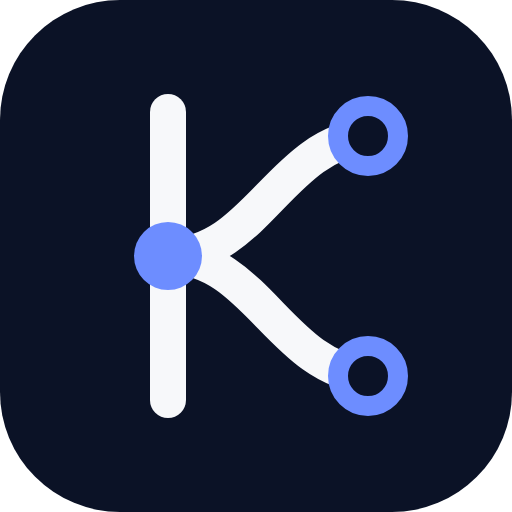
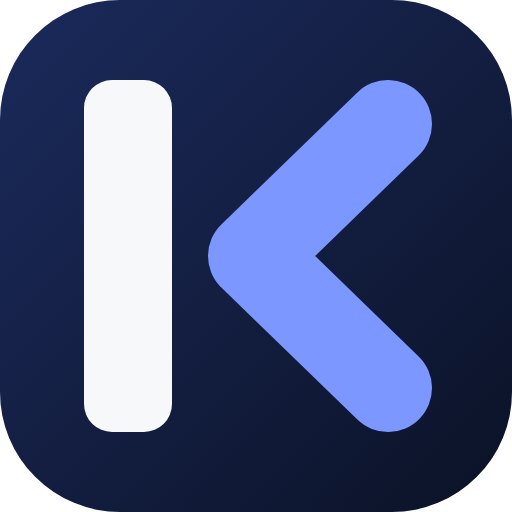
Brand v2: a K of two solid shapes with the owner's wordmark
The first mark (thin lines and dots) read as clip art. The new mark is a stem
and a bold chevron split by an even gap: strong silhouette, flat or on a tile,
legible at 16 px. Variants: flat lockup (site), app tile, uppercase wide-spaced
alternative, dark, mono marks, bolder favicon. Logo component follows the theme
(stem and wordmark use the text color, chevron the accent token).

Claude-Session: https://claude.ai/code/session_01XyvwrkBXy9FJNk8EbfWp2H

diff --git a/apps/hub/src/components/Logo.tsx b/apps/hub/src/components/Logo.tsx
@@ -1,26 +1,32 @@
 /**
- * The KpnSolute logo: the K-as-a-route icon plus the outlined wordmark (Josefin Sans, SIL OFL 1.1).
- * The wordmark takes the surrounding text color, so it follows light and dark themes. Generated from
- * brand/kpnsolute/build.py; edit the source there, not this path.
+ * The KpnSolute logo: a K made of two solid shapes (a stem and a bold chevron) plus the outlined wordmark
+ * (Josefin Sans, SIL OFL 1.1). The stem and wordmark take the surrounding text color and the chevron takes
+ * the accent token, so the logo follows light and dark themes. Generated from brand/kpnsolute/build.py:
+ * change the source there, not this path.
  */
 const WORDMARK_PATH =
-  'M170.0383229389828 58.20669459652463 169.82752995318575 60.66148758232166 170.74206331825755 59.33895421724985 190.45905260652228 38.61569118463857H199.41761421883677L179.05164928985164 59.862154407680706L200.46492644608426 87.868H191.6865543124653L173.9858947869555 64.25134047449019L170.0077194318813 68.10710180115845L170.0383229389828 87.868H163.0108631278267V38.61569118463857H170.0383229389828Z M224.64925620883918 88.56158597159406Q221.47699658811393 88.56158597159406 218.57505625644689 87.1165333650718Q215.6731159247798 85.67148075854955 214.0343229389828 83.22341061651987L214.42873696738872 81.16989478695548V101.47472284376735H207.79225962072522V59.09398587637863H213.5651860668095L214.46613346028724 66.18993668174244L213.7793404744902 64.18054018884392Q215.84651241767833 61.65767706101721 218.9473404744902 60.01373672935014Q222.04816853130208 58.36979639768308 225.91058255970802 58.36979639768308Q229.9055650242006 58.36979639768308 233.07775450289614 60.26189113703086Q236.24994398159168 62.15398587637863 238.0893404744902 65.57776132666825Q239.92873696738872 69.00153677695786 239.92873696738872 73.64248417043561Q239.92873696738872 78.21543156391334 237.9278492422439 81.58311227485518Q235.9269615170991 84.95079298579702 232.48448782036024 86.75618947869555Q229.04201412362136 88.56158597159406 224.64925620883918 88.56158597159406ZM223.35732635086885 83.25443497579941Q226.03656843608664 83.25443497579941 228.25 82.02021042608902Q230.46343156391336 80.78598587637863 231.80644909942077 78.6099508053638Q233.1494666349282 76.43391573434896 233.1494666349282 73.71727715623264Q233.1494666349282 70.8952420852178 231.89654383876854 68.71920701420296Q230.6436210426089 66.54317194318813 228.53558597159406 65.29024914702848Q226.42755090057923 64.03732635086884 223.82310180115846 64.03732635086884Q221.42944568753472 64.03732635086884 219.5236948345632 64.92987018963738Q217.61794398159168 65.82241402840593 216.3276246925335 67.40518241688486Q215.03730540347536 68.9879508053638 214.46613346028724 71.12662445449496V76.10736142188367Q214.8571159247798 78.14743156391334 216.10664222804093 79.78629469174005Q217.35616853130207 81.42515781956676 219.24661763072285 82.33979639768309Q221.13706673014363 83.25443497579941 223.35732635086885 83.25443497579941Z M254.3243580099976 59.55976132666825 254.88873696738872 66.24091914623502 254.63032293898277 65.24465952550979Q256.01070189637386 62.15062445449496 259.035021185432 60.29421042608902Q262.05934047449017 58.43779639768309 266.1155299531857 58.43779639768309Q270.11730540347537 58.43779639768309 272.70977910021423 60.79738236927715Q275.3022527969531 63.15696834087122 275.3702527969531 66.91734729826231V87.868H268.66577545028963V69.25981052130444Q268.5977754502896 67.01237895739109 267.351645639927 65.59285265412996Q266.1055158295644 64.17332635086883 263.48748075854957 64.14272284376734Q261.09725620883916 64.14272284376734 259.1592211378243 65.50951582956438Q257.2211860668095 66.87630881536141 256.1076597635483 69.26310180115846Q254.99413346028723 71.64989478695549 254.99413346028723 74.7846877727525V87.868H248.3202596207252V59.55976132666825Z M313.3519298579703 47.720547488693164Q310.8325684360866 46.401375545505026 307.8286631754344 45.442582559708Q304.82475791478214 44.48378957391097 302.02653336507177 44.48378957391097Q298.12665270173767 44.48378957391097 295.83160009521544 46.26544568753471Q293.53654748869315 48.04710180115845 293.53654748869315 51.0901544076807Q293.53654748869315 53.286603507101475 295.03765976354833 54.86422454971038Q296.5387720384035 56.44184559231928 298.9476948345632 57.60635436007299Q301.35661763072284 58.7708631278267 304.0120491946362 59.777277156232635Q306.27985971594063 60.62388066333412 308.51367023724504 61.730578909783375Q310.7474807585495 62.83727715623264 312.53929127985396 64.45737189558041Q314.3311018011584 66.07746663492819 315.39700706181065 68.48295786717448Q316.4629123224629 70.88844909942077 316.4629123224629 74.40063857811631Q316.4629123224629 78.30044909942077 314.52151582956435 81.48794033166706Q312.58011933666586 84.67543156391335 308.95574037927474 86.54371578195668Q305.3313614218836 88.41199999999999 300.2450175355074 88.41199999999999Q297.05237895739106 88.41199999999999 294.0943789573911 87.69628421804332Q291.13637895739106 86.98056843608664 288.5711122748552 85.79056843608664Q286.00584559231925 84.60056843608665 283.9659157343489 83.2236210426089L287.0631719431881 77.77367706101721Q288.70875791478215 78.97386653971276 290.81336142188366 80.00577180036498Q292.91796492898516 81.0376770610172 295.20958597159404 81.67348758232166Q297.5012070142029 82.30929810362612 299.60584559231927 82.30929810362612Q301.8941052130445 82.30929810362612 304.1245543124653 81.50856478616203Q306.35500341188606 80.70783146869792 307.8204349757994 78.97887360152345Q309.28586653971274 77.24991573434896 309.28586653971274 74.4312420852178Q309.28586653971274 72.04774037927477 307.97852971514715 70.41059303340474Q306.6711928905816 68.7734456875347 304.56144203761005 67.60042815202729Q302.45169118463855 66.42741061651986 300.0206385781163 65.52639308101246Q297.7086385781163 64.64239308101244 295.3218455923193 63.56290184876616Q292.9350526065222 62.483410616519876 290.9001648813774 60.93982464492581Q288.8652771562326 59.39623867333174 287.63108767753704 57.14376497659286Q286.39689819884154 54.891291279853995 286.39689819884154 51.6545333650718Q286.39689819884154 47.70037895739109 288.25838943108783 44.77981052130444Q290.11988066333413 41.8592420852178 293.426354360073 40.1728631278267Q296.73282805681185 38.4864841704356 301.0201894786955 38.34369118463857Q305.8786527017377 38.34369118463857 309.5302386733317 39.5268631278267Q313.18182464492577 40.710035071014836 315.9902036023169 42.40660350710147Z M323.3378455923193 73.43122982523504Q323.3378455923193 69.18172625565342 325.35743156391334 65.76134729826231Q327.37701753550743 62.340968340871214 330.96504703465666 60.35877886217567Q334.5530765338059 58.376589383480116 339.120498294057 58.376589383480116Q343.7614456875347 58.376589383480116 347.2566176307229 60.35877886217567Q350.75178957391097 62.340968340871214 352.68128080615725 65.76242380353725Q354.6107720384035 69.18387926620326 354.6107720384035 73.41677389725744Q354.6107720384035 77.68165611362373 352.68128080615725 81.12073331746409Q350.75178957391097 84.55981052130444 347.2413158771721 86.56069824644925Q343.7308421804332 88.56158597159406 339.0304035547092 88.56158597159406Q334.5169473934777 88.56158597159406 330.9656807109418 86.70349123224628Q327.41441402840593 84.84539649289852 325.3761298103626 81.44239540637409Q323.3378455923193 78.03939431984966 323.3378455923193 73.43122982523504ZM330.0491159247798 73.49969118463858Q330.0491159247798 76.18166877887103 331.2268384022995 78.35257477048339Q332.4045608798192 80.52348076209574 334.42947878879164 81.7988631295998Q336.4543966977641 83.07424549710386 338.9403088153614 83.07424549710386Q341.54609446132855 83.07424549710386 343.5633665197224 81.80262445449495Q345.5806385781163 80.53100341188605 346.7247683884789 78.35777171556754Q347.8688981988415 76.18454001924901 347.8688981988415 73.49969118463858Q347.8688981988415 70.79505859776975 346.7247683884789 68.63171877758042Q345.5806385781163 66.46837895739108 343.56779493418674 65.18145616123144Q341.5549512902572 63.8945333650718 338.9545904520088 63.8945333650718Q336.41065270173766 63.8945333650718 334.39610886296913 65.21205966833293Q332.3815650242006 66.52958597159406 331.2153404744902 68.70222454971038Q330.0491159247798 70.8748631278267 330.0491159247798 73.49969118463858Z M363.0362596207252 35.10350170594302H369.71013346028724V87.868H363.0362596207252Z M389.5493964928985 88.98996492898516Q385.65981052130445 88.98996492898516 383.15403507101485 86.63037895739109Q380.64825962072524 84.27079298579703 380.5122596207252 80.51041402840593V59.55976132666825H387.18613346028724V78.13734729826231Q387.32213346028726 80.38477886217566 388.49686677775134 81.8043051654368Q389.6716000952154 83.22383146869792 392.2080491946362 83.28503848290089Q394.5302737443466 83.28503848290089 396.38161056891215 81.88764199000238Q398.23294739347773 80.49024549710386 399.3277754502896 78.06945251130682Q400.4226035071015 75.6486595255098 400.4226035071015 72.58186653971276V59.55976132666825H407.0964773466635V87.868H401.06177545028964L400.49739649289853 81.11204919463619L400.78641402840594 82.2749123224629Q399.91943156391335 84.20272284376735 398.27892279615963 85.73783511862254Q396.6384140284059 87.27294739347774 394.40460350710146 88.13145616123145Q392.17079298579705 88.98996492898516 389.5493964928985 88.98996492898516Z M420.6390526065222 47.11583146869792H427.34352995318574V59.637985876378636H435.010582559708V64.87713687217328H427.34352995318574V87.868H420.6390526065222V64.87713687217328H415.556V59.637985876378636H420.6390526065222Z M455.83910180115845 88.56158597159406Q450.9805684360866 88.56158597159406 447.46669824644925 86.61339649289852Q443.9528280568119 84.66520701420296 442.0573368245656 81.2601298103626Q440.1618455923193 77.85505260652225 440.1618455923193 73.49969118463858Q440.1618455923193 69.28712274855192 442.2902245497104 65.86674379116083Q444.41860350710147 62.44636483376973 448.0038701896374 60.41147710862492Q451.5891368721733 58.376589383480116 455.9818947869555 58.376589383480116Q461.63941061651985 58.376589383480116 465.3555650242006 61.66944203761008Q469.0717194318813 64.96229469174006 470.3875299531858 70.83396492898515L447.2063229389828 78.91244909942077L445.618582559708 75.02979639768309L464.3970175355074 68.19225962072522L463.0064841704356 69.1068631278267Q462.1870526065223 66.91041402840592 460.3646035071015 65.29368071094183Q458.5421544076807 63.67694739347773 455.47872284376734 63.67694739347773Q452.9422737443466 63.67694739347773 450.96172990557807 64.89247369673886Q448.98118606680947 66.10799999999999 447.85575450289616 68.23133682456557Q446.7303229389828 70.35467364913114 446.7303229389828 73.13931222724747Q446.7303229389828 76.01912274855192 447.918642228041 78.2104595731175Q449.10696151709914 80.40179639768309 451.21160009521543 81.62922796159644Q453.3162386733318 82.8566595255098 455.9818947869555 82.8566595255098Q457.82132635086884 82.8566595255098 459.52815440768074 82.19024549710386Q461.2349824644926 81.52383146869792 462.72418947869556 80.45621042608902L465.77725620883916 85.38596492898516Q463.61148075854953 86.80717194318812 460.97989478695547 87.68437895739109Q458.3483088153614 88.56158597159406 455.83910180115845 88.56158597159406Z';
+  'M168.0383229389828 58.20669459652463 167.82752995318575 60.66148758232166 168.74206331825755 59.33895421724985 188.45905260652228 38.61569118463857H197.41761421883677L177.05164928985164 59.862154407680706L198.46492644608426 87.868H189.6865543124653L171.9858947869555 64.25134047449019L168.0077194318813 68.10710180115845L168.0383229389828 87.868H161.0108631278267V38.61569118463857H168.0383229389828Z M222.64925620883918 88.56158597159406Q219.47699658811393 88.56158597159406 216.57505625644689 87.1165333650718Q213.6731159247798 85.67148075854955 212.0343229389828 83.22341061651987L212.42873696738872 81.16989478695548V101.47472284376735H205.79225962072522V59.09398587637863H211.5651860668095L212.46613346028724 66.18993668174244L211.7793404744902 64.18054018884392Q213.84651241767833 61.65767706101721 216.9473404744902 60.01373672935014Q220.04816853130208 58.36979639768308 223.91058255970802 58.36979639768308Q227.9055650242006 58.36979639768308 231.07775450289614 60.26189113703086Q234.24994398159168 62.15398587637863 236.0893404744902 65.57776132666825Q237.92873696738872 69.00153677695786 237.92873696738872 73.64248417043561Q237.92873696738872 78.21543156391334 235.9278492422439 81.58311227485518Q233.9269615170991 84.95079298579702 230.48448782036024 86.75618947869555Q227.04201412362136 88.56158597159406 222.64925620883918 88.56158597159406ZM221.35732635086885 83.25443497579941Q224.03656843608664 83.25443497579941 226.25 82.02021042608902Q228.46343156391336 80.78598587637863 229.80644909942077 78.6099508053638Q231.1494666349282 76.43391573434896 231.1494666349282 73.71727715623264Q231.1494666349282 70.8952420852178 229.89654383876854 68.71920701420296Q228.6436210426089 66.54317194318813 226.53558597159406 65.29024914702848Q224.42755090057923 64.03732635086884 221.82310180115846 64.03732635086884Q219.42944568753472 64.03732635086884 217.5236948345632 64.92987018963738Q215.61794398159168 65.82241402840593 214.3276246925335 67.40518241688486Q213.03730540347536 68.9879508053638 212.46613346028724 71.12662445449496V76.10736142188367Q212.8571159247798 78.14743156391334 214.10664222804093 79.78629469174005Q215.35616853130207 81.42515781956676 217.24661763072285 82.33979639768309Q219.13706673014363 83.25443497579941 221.35732635086885 83.25443497579941Z M252.3243580099976 59.55976132666825 252.88873696738872 66.24091914623502 252.63032293898277 65.24465952550979Q254.0107018963739 62.15062445449496 257.035021185432 60.29421042608902Q260.05934047449017 58.43779639768309 264.1155299531857 58.43779639768309Q268.11730540347537 58.43779639768309 270.70977910021423 60.79738236927715Q273.3022527969531 63.15696834087122 273.3702527969531 66.91734729826231V87.868H266.66577545028963V69.25981052130444Q266.5977754502896 67.01237895739109 265.351645639927 65.59285265412996Q264.1055158295644 64.17332635086883 261.48748075854957 64.14272284376734Q259.09725620883916 64.14272284376734 257.1592211378243 65.50951582956438Q255.22118606680948 66.87630881536141 254.10765976354836 69.26310180115846Q252.99413346028723 71.64989478695549 252.99413346028723 74.7846877727525V87.868H246.3202596207252V59.55976132666825Z M311.3519298579703 47.720547488693164Q308.8325684360866 46.401375545505026 305.8286631754344 45.442582559708Q302.82475791478214 44.48378957391097 300.02653336507177 44.48378957391097Q296.12665270173767 44.48378957391097 293.83160009521544 46.26544568753471Q291.53654748869315 48.04710180115845 291.53654748869315 51.0901544076807Q291.53654748869315 53.286603507101475 293.03765976354833 54.86422454971038Q294.5387720384035 56.44184559231928 296.9476948345632 57.60635436007299Q299.35661763072284 58.7708631278267 302.0120491946362 59.777277156232635Q304.27985971594063 60.62388066333412 306.51367023724504 61.730578909783375Q308.7474807585495 62.83727715623264 310.53929127985396 64.45737189558041Q312.3311018011584 66.07746663492819 313.39700706181065 68.48295786717448Q314.4629123224629 70.88844909942077 314.4629123224629 74.40063857811631Q314.4629123224629 78.30044909942077 312.52151582956435 81.48794033166706Q310.58011933666586 84.67543156391335 306.95574037927474 86.54371578195668Q303.3313614218836 88.41199999999999 298.2450175355074 88.41199999999999Q295.05237895739106 88.41199999999999 292.0943789573911 87.69628421804332Q289.13637895739106 86.98056843608664 286.5711122748552 85.79056843608664Q284.00584559231925 84.60056843608665 281.9659157343489 83.2236210426089L285.0631719431881 77.77367706101721Q286.70875791478215 78.97386653971276 288.81336142188366 80.00577180036498Q290.91796492898516 81.0376770610172 293.20958597159404 81.67348758232166Q295.5012070142029 82.30929810362612 297.60584559231927 82.30929810362612Q299.8941052130445 82.30929810362612 302.1245543124653 81.50856478616203Q304.35500341188606 80.70783146869792 305.8204349757994 78.97887360152345Q307.28586653971274 77.24991573434896 307.28586653971274 74.4312420852178Q307.28586653971274 72.04774037927477 305.97852971514715 70.41059303340474Q304.6711928905816 68.7734456875347 302.56144203761005 67.60042815202729Q300.45169118463855 66.42741061651986 298.0206385781163 65.52639308101246Q295.7086385781163 64.64239308101244 293.3218455923193 63.56290184876616Q290.9350526065222 62.483410616519876 288.9001648813774 60.93982464492581Q286.8652771562326 59.39623867333174 285.63108767753704 57.14376497659286Q284.39689819884154 54.891291279853995 284.39689819884154 51.6545333650718Q284.39689819884154 47.70037895739109 286.25838943108783 44.77981052130444Q288.11988066333413 41.8592420852178 291.426354360073 40.1728631278267Q294.73282805681185 38.4864841704356 299.0201894786955 38.34369118463857Q303.8786527017377 38.34369118463857 307.5302386733317 39.5268631278267Q311.18182464492577 40.710035071014836 313.9902036023169 42.40660350710147Z M321.3378455923193 73.43122982523504Q321.3378455923193 69.18172625565342 323.35743156391334 65.76134729826231Q325.37701753550743 62.340968340871214 328.96504703465666 60.35877886217567Q332.5530765338059 58.376589383480116 337.120498294057 58.376589383480116Q341.7614456875347 58.376589383480116 345.2566176307229 60.35877886217567Q348.75178957391097 62.340968340871214 350.68128080615725 65.76242380353725Q352.6107720384035 69.18387926620326 352.6107720384035 73.41677389725744Q352.6107720384035 77.68165611362373 350.68128080615725 81.12073331746409Q348.75178957391097 84.55981052130444 345.2413158771721 86.56069824644925Q341.7308421804332 88.56158597159406 337.0304035547092 88.56158597159406Q332.5169473934777 88.56158597159406 328.9656807109418 86.70349123224628Q325.41441402840593 84.84539649289852 323.3761298103626 81.44239540637409Q321.3378455923193 78.03939431984966 321.3378455923193 73.43122982523504ZM328.0491159247798 73.49969118463858Q328.0491159247798 76.18166877887103 329.2268384022995 78.35257477048339Q330.4045608798192 80.52348076209574 332.42947878879164 81.7988631295998Q334.4543966977641 83.07424549710386 336.9403088153614 83.07424549710386Q339.54609446132855 83.07424549710386 341.5633665197224 81.80262445449495Q343.5806385781163 80.53100341188605 344.7247683884789 78.35777171556754Q345.8688981988415 76.18454001924901 345.8688981988415 73.49969118463858Q345.8688981988415 70.79505859776975 344.7247683884789 68.63171877758042Q343.5806385781163 66.46837895739108 341.56779493418674 65.18145616123144Q339.5549512902572 63.8945333650718 336.9545904520088 63.8945333650718Q334.41065270173766 63.8945333650718 332.39610886296913 65.21205966833293Q330.3815650242006 66.52958597159406 329.2153404744902 68.70222454971038Q328.0491159247798 70.8748631278267 328.0491159247798 73.49969118463858Z M361.0362596207252 35.10350170594302H367.71013346028724V87.868H361.0362596207252Z M387.5493964928985 88.98996492898516Q383.65981052130445 88.98996492898516 381.15403507101485 86.63037895739109Q378.64825962072524 84.27079298579703 378.5122596207252 80.51041402840593V59.55976132666825H385.18613346028724V78.13734729826231Q385.32213346028726 80.38477886217566 386.49686677775134 81.8043051654368Q387.6716000952154 83.22383146869792 390.2080491946362 83.28503848290089Q392.5302737443466 83.28503848290089 394.38161056891215 81.88764199000238Q396.23294739347773 80.49024549710386 397.3277754502896 78.06945251130682Q398.4226035071015 75.6486595255098 398.4226035071015 72.58186653971276V59.55976132666825H405.0964773466635V87.868H399.06177545028964L398.49739649289853 81.11204919463619L398.78641402840594 82.2749123224629Q397.91943156391335 84.20272284376735 396.27892279615963 85.73783511862254Q394.6384140284059 87.27294739347774 392.40460350710146 88.13145616123145Q390.17079298579705 88.98996492898516 387.5493964928985 88.98996492898516Z M418.6390526065222 47.11583146869792H425.34352995318574V59.637985876378636H433.010582559708V64.87713687217328H425.34352995318574V87.868H418.6390526065222V64.87713687217328H413.556V59.637985876378636H418.6390526065222Z M453.83910180115845 88.56158597159406Q448.9805684360866 88.56158597159406 445.46669824644925 86.61339649289852Q441.9528280568119 84.66520701420296 440.0573368245656 81.2601298103626Q438.1618455923193 77.85505260652225 438.1618455923193 73.49969118463858Q438.1618455923193 69.28712274855192 440.2902245497104 65.86674379116083Q442.41860350710147 62.44636483376973 446.0038701896374 60.41147710862492Q449.5891368721733 58.376589383480116 453.9818947869555 58.376589383480116Q459.63941061651985 58.376589383480116 463.3555650242006 61.66944203761008Q467.0717194318813 64.96229469174006 468.3875299531858 70.83396492898515L445.2063229389828 78.91244909942077L443.618582559708 75.02979639768309L462.3970175355074 68.19225962072522L461.0064841704356 69.1068631278267Q460.1870526065223 66.91041402840592 458.3646035071015 65.29368071094183Q456.5421544076807 63.67694739347773 453.47872284376734 63.67694739347773Q450.9422737443466 63.67694739347773 448.96172990557807 64.89247369673886Q446.98118606680947 66.10799999999999 445.85575450289616 68.23133682456557Q444.7303229389828 70.35467364913114 444.7303229389828 73.13931222724747Q444.7303229389828 76.01912274855192 445.918642228041 78.2104595731175Q447.10696151709914 80.40179639768309 449.21160009521543 81.62922796159644Q451.3162386733318 82.8566595255098 453.9818947869555 82.8566595255098Q455.82132635086884 82.8566595255098 457.52815440768074 82.19024549710386Q459.2349824644926 81.52383146869792 460.72418947869556 80.45621042608902L463.77725620883916 85.38596492898516Q461.61148075854953 86.80717194318812 458.97989478695547 87.68437895739109Q456.3483088153614 88.56158597159406 453.83910180115845 88.56158597159406Z';
 
 export function Logo({ height = 36, className }: { height?: number; className?: string }) {
   return (
     <svg
-      viewBox="0 0 472.744 128"
+      viewBox="0 0 470.744 128"
       height={height}
-      width={(height * 472.744) / 128}
+      width={(height * 470.744) / 128}
       className={className}
       aria-hidden="true"
       focusable="false"
     >
-      <g dangerouslySetInnerHTML={{ __html: TILE }} />
+      <rect x="21" y="20" width="22" height="88" rx="7" fill="currentColor" />
+      <path
+        d="M97 31 L63 64 L97 97"
+        fill="none"
+        stroke="var(--kpn-color-accent)"
+        strokeWidth="22"
+        strokeLinejoin="round"
+        strokeLinecap="round"
+      />
       <path d={WORDMARK_PATH} fill="currentColor" />
     </svg>
   );
 }
-
-const TILE =
-  '<rect width="128" height="128" rx="30" fill="#0B1226"/><g fill="none" stroke="#F7F8FA" stroke-width="9" stroke-linecap="round"><path d="M42 28V100"/><path d="M42 64C64 64 70 36 92 34"/><path d="M42 64C64 64 70 92 92 94"/></g><circle cx="42" cy="64" r="8.5" fill="#6D8DFF"/><circle cx="92" cy="34" r="7.5" fill="#0B1226" stroke="#6D8DFF" stroke-width="5"/><circle cx="92" cy="94" r="7.5" fill="#0B1226" stroke="#6D8DFF" stroke-width="5"/>';

diff --git a/apps/hub/src/components/SiteChrome.tsx b/apps/hub/src/components/SiteChrome.tsx
@@ -30,7 +30,7 @@ export function SiteHeader() {
       </a>
       <div className="pub-header-inner">
         <Link to="/" className="pub-logo kpn-focusable" aria-label="KpnSolute home">
-          <Logo height={38} />
+          <Logo height={46} />
         </Link>
         <nav aria-label="Main" className="pub-nav">
           {NAV.map((item) => (

diff --git a/brand/kpnsolute/build.py b/brand/kpnsolute/build.py
@@ -1,72 +1,64 @@
 """Builds the KpnSolute logo files. Wordmark letters are outlined from Josefin Sans (SIL OFL 1.1),
-so the SVGs need no installed font. Run: /tmp/brandvenv/bin/python build.py"""
+so the SVGs need no installed font.   Run: python3 build.py   (needs: pip install fonttools)
+
+The mark is a K made of two solid shapes: a stem and a bold chevron (the branch), split by an even gap.
+Navy stem + blue chevron on light; white stem + light-blue chevron on dark or on the app tile."""
 from fontTools.ttLib import TTFont
 from fontTools.varLib.instancer import instantiateVariableFont
 from fontTools.pens.svgPathPen import SVGPathPen
 from fontTools.pens.transformPen import TransformPen
 
-NAVY, INK, ACCENT, SOFT = "#0B1226", "#F7F8FA", "#6D8DFF", "#2F5FE0"
-WORD, WGHT = "KpnSolute", 450
+NAVY, INK, BLUE, SKY = "#0B1226", "#F7F8FA", "#2F5FE0", "#7C97FF"
+TILE_FROM = "#1B2A5C"
+_font = {}
+def load(w):
+    if w not in _font:
+        f = instantiateVariableFont(TTFont("JosefinSans-VF.ttf"), {"wght": w}); _font[w] = (f, f.getGlyphSet(), f.getBestCmap(), f["head"].unitsPerEm)
+    return _font[w]
 
-font = instantiateVariableFont(TTFont("JosefinSans-VF.ttf"), {"wght": WGHT})
-gs, cmap, upm = font.getGlyphSet(), font.getBestCmap(), font["head"].unitsPerEm
+def word(text, size, x0, base, wght=450, tracking=0.0, upper=False):
+    f, gs, cm, upm = load(wght); text = text.upper() if upper else text; sc = size / upm; x = x0; parts = []
+    for ch in text:
+        n = cm[ord(ch)]; pen = SVGPathPen(gs); gs[n].draw(TransformPen(pen, (sc, 0, 0, -sc, x, base))); parts.append(pen.getCommands()); x += gs[n].width * sc + tracking * size
+    return " ".join(p for p in parts if p), x - x0 - tracking * size, f["OS/2"].sCapHeight / upm * size
 
-def wordmark_path(size: float, x0: float = 0.0, baseline: float = 0.0, tracking: float = 0.0):
-    """Outlined text: returns (svg path d, width). tracking in em units."""
-    scale, x, parts = size / upm, x0, []
-    for ch in WORD:
-        name = cmap[ord(ch)]; pen = SVGPathPen(gs)
-        gs[name].draw(TransformPen(pen, (scale, 0, 0, -scale, x, baseline)))
-        parts.append(pen.getCommands()); x += gs[name].width * scale + tracking * size
-    return " ".join(p for p in parts if p), x - x0 - tracking * size
+GRAD = f'<defs><linearGradient id="g" x1="0" y1="0" x2="1" y2="1"><stop offset="0" stop-color="{TILE_FROM}"/><stop offset="1" stop-color="{NAVY}"/></linearGradient></defs>'
 
-def mark(tile: bool, stroke: str, node_fill: str, ring: str, bg: str = NAVY) -> str:
-    """The K as a route: a stem, and two branches that leave it and end in nodes (the route map)."""
-    out = []
-    if tile: out.append(f'<rect width="128" height="128" rx="30" fill="{bg}"/>')
-    mask = ""
-    if not tile:  # transparent background: cut the arms where the node rings sit instead of covering them
-        mask = ('<mask id="k"><rect width="128" height="128" fill="#fff"/>'
-                '<circle cx="92" cy="34" r="11" fill="#000"/><circle cx="92" cy="94" r="11" fill="#000"/></mask>')
-    out.append(mask + f'<g fill="none" stroke="{stroke}" stroke-width="9" stroke-linecap="round"' + (' mask="url(#k)"' if mask else '') + '>'
-               f'<path d="M42 28V100"/>'
-               f'<path d="M42 64C64 64 70 36 92 34"/>'
-               f'<path d="M42 64C64 64 70 92 92 94"/></g>')
-    out.append(f'<circle cx="42" cy="64" r="8.5" fill="{node_fill}"/>')
-    for cy in (34, 94):
-        out.append(f'<circle cx="92" cy="{cy}" r="7.5" fill="{bg if tile else "none"}" stroke="{ring}" stroke-width="5"/>')
-    return "".join(out)
+def mark(stem, chev, tile=False, bold=False):
+    """128 x 128. Optical edges line up: the chevron's round caps end exactly at the stem's top and bottom."""
+    t = '<rect width="128" height="128" rx="30" fill="url(#g)"/>' if tile else ""
+    if bold:   # favicon: heavier, wider gap, so it holds at 16 px
+        return (t + f'<rect x="18" y="22" width="26" height="84" rx="8" fill="{stem}"/>'
+                f'<path d="M99 37 L68 64 L99 91" fill="none" stroke="{chev}" stroke-width="26" stroke-linejoin="round" stroke-linecap="round"/>')
+    return (t + f'<rect x="21" y="20" width="22" height="88" rx="7" fill="{stem}"/>'
+            f'<path d="M97 31 L63 64 L97 97" fill="none" stroke="{chev}" stroke-width="22" stroke-linejoin="round" stroke-linecap="round"/>')
 
-def svg(w, h, body, title):
-    return (f'<svg xmlns="http://www.w3.org/2000/svg" viewBox="0 0 {w:g} {h:g}" width="{w:g}" height="{h:g}" role="img" '
-            f'aria-labelledby="t"><title id="t">{title}</title>{body}</svg>\n')
+def svg(w, h, body, grad=False, title="KpnSolute"):
+    return (f'<svg xmlns="http://www.w3.org/2000/svg" viewBox="0 0 {w:g} {h:g}" width="{w:g}" height="{h:g}" role="img" aria-labelledby="t">'
+            f'<title id="t">{title}</title>{GRAD if grad else ""}{body}</svg>\n')
 
-def write(name, content):
-    open(name, "w").write(content); print("wrote", name)
+def write(name, content): open(name, "w").write(content); print("wrote", name)
 
-# 1. icon (tile) and mono mark
-write("kpnsolute-icon.svg", svg(128, 128, mark(True, INK, ACCENT, ACCENT), "KpnSolute"))
-write("kpnsolute-mark-navy.svg", svg(128, 128, mark(False, NAVY, NAVY, NAVY), "KpnSolute"))
-write("kpnsolute-mark-white.svg", svg(128, 128, mark(False, INK, INK, INK), "KpnSolute"))
+def lockup(markbody, color, grad=False, **text):
+    H, GAP = 128, 26
+    _, _, cap = word(**text, x0=0, base=0)
+    d, tw, _ = word(**text, x0=H + GAP, base=H / 2 + cap / 2)
+    return svg(H + GAP + tw, H, markbody + f'<path d="{d}" fill="{color}"/>', grad)
 
-# 2. lockups: tile icon + outlined wordmark
-SIZE, GAP, H = 68, 28, 128
-d, tw = wordmark_path(SIZE, baseline=0)
-cap = font["OS/2"].sCapHeight / upm * SIZE
-base = H / 2 + cap / 2           # vertically centre the capitals on the tile
-d, tw = wordmark_path(SIZE, x0=H + GAP, baseline=base)
-W = H + GAP + tw
-write("kpnsolute-lockup.svg", svg(W, H, mark(True, INK, ACCENT, ACCENT) + f'<path d="{d}" fill="{NAVY}"/>', "KpnSolute"))
-write("kpnsolute-lockup-on-dark.svg", svg(W, H, mark(True, INK, ACCENT, ACCENT, bg="#1A2240") + f'<path d="{d}" fill="{INK}"/>', "KpnSolute"))
+MIXED = dict(text="KpnSolute", size=68, wght=450)
+UPPER = dict(text="KpnSolute", size=50, wght=400, tracking=0.22, upper=True)
 
-# favicon: the same K, bolder and simpler so it holds at 16px (solid nodes, no rings)
-fav = (f'<rect width="128" height="128" rx="30" fill="{NAVY}"/>'
-       f'<g fill="none" stroke="{INK}" stroke-width="14" stroke-linecap="round"><path d="M40 26V102"/>'
-       f'<path d="M40 64C62 64 68 36 90 34"/><path d="M40 64C62 64 68 92 90 94"/></g>'
-       f'<circle cx="92" cy="33" r="13" fill="{ACCENT}"/><circle cx="92" cy="95" r="13" fill="{ACCENT}"/>')
-write("kpnsolute-favicon.svg", svg(128, 128, fav, "KpnSolute"))
-
-# 3. wordmark alone (as supplied: navy on white)
-dw, ww = wordmark_path(96, baseline=96 * 0.75)
-write("kpnsolute-wordmark.svg", svg(ww + 4, 118, f'<path d="{dw}" fill="{NAVY}"/>', "KpnSolute"))
-print("lockup width", round(W), "wordmark width", round(ww))
+# icon and marks
+write("kpnsolute-icon.svg", svg(128, 128, mark(INK, SKY, tile=True), grad=True))
+write("kpnsolute-mark.svg", svg(128, 128, mark(NAVY, BLUE)))
+write("kpnsolute-mark-navy.svg", svg(128, 128, mark(NAVY, NAVY)))
+write("kpnsolute-mark-white.svg", svg(128, 128, mark(INK, INK)))
+write("kpnsolute-favicon.svg", svg(128, 128, mark(INK, SKY, tile=True, bold=True), grad=True))
+# lockups: flat mark + the owner's wordmark (primary), tile variant, uppercase alternative, on dark
+write("kpnsolute-lockup.svg", lockup(mark(NAVY, BLUE), NAVY, **MIXED))
+write("kpnsolute-lockup-on-dark.svg", lockup(mark(INK, SKY), INK, **MIXED))
+write("kpnsolute-lockup-tile.svg", lockup(mark(INK, SKY, tile=True), NAVY, grad=True, **MIXED))
+write("kpnsolute-lockup-uppercase.svg", lockup(mark(NAVY, BLUE), NAVY, **UPPER))
+write("kpnsolute-lockup-uppercase-on-dark.svg", lockup(mark(INK, SKY), INK, **UPPER))
+dw, ww, _ = word(text="KpnSolute", size=96, x0=0, base=72, wght=450)
+write("kpnsolute-wordmark.svg", svg(ww + 4, 118, f'<path d="{dw}" fill="{NAVY}"/>'))

diff --git a/docs/PUBLIC_SITE.md b/docs/PUBLIC_SITE.md
@@ -27,10 +27,10 @@ privacy of customer materials) and `governance/LEGAL_STATUS_AND_IP.md`. Change t
 ## Brand
 
 `brand/kpnsolute/` holds the source (`build.py`, Josefin Sans under the SIL OFL, licence included). The wordmark
-is the owner's supplied lettering (Josefin Sans), outlined so no font is needed. The icon is a **K built as a
-route**: a stem that branches into two paths ending in nodes, the same idea as the home page route map.
+is the owner's supplied lettering (Josefin Sans), outlined so no font is needed. The mark is a **K made of two
+solid shapes**: a stem and a bold chevron split by an even gap. Navy stem and blue chevron on light, white stem and
+light-blue chevron on dark or on the app tile. Variants: flat lockup (site), app tile, uppercase wide-spaced
+alternative, dark, mono marks, and a bolder favicon that holds at 16 px.
 
 Regenerate: `python3 -m venv /tmp/v && /tmp/v/bin/pip install fonttools && cd brand/kpnsolute && /tmp/v/bin/python build.py`,
-then copy the SVGs to `apps/hub/public/brand/` and refresh `apps/hub/src/components/Logo.tsx` (its path is generated).
-Colors: navy `#0B1226`, paper `#F7F8FA`, accent `#6D8DFF` on dark tile (the site's blue `#2F5FE0` on light).
-`kpnsolute-favicon.svg` is a bolder, simpler K for 16 to 48 px.
+then copy the SVGs to `apps/hub/public/brand/` and refresh `apps/hub/src/components/Logo.tsx` (its wordmark path is generated).
